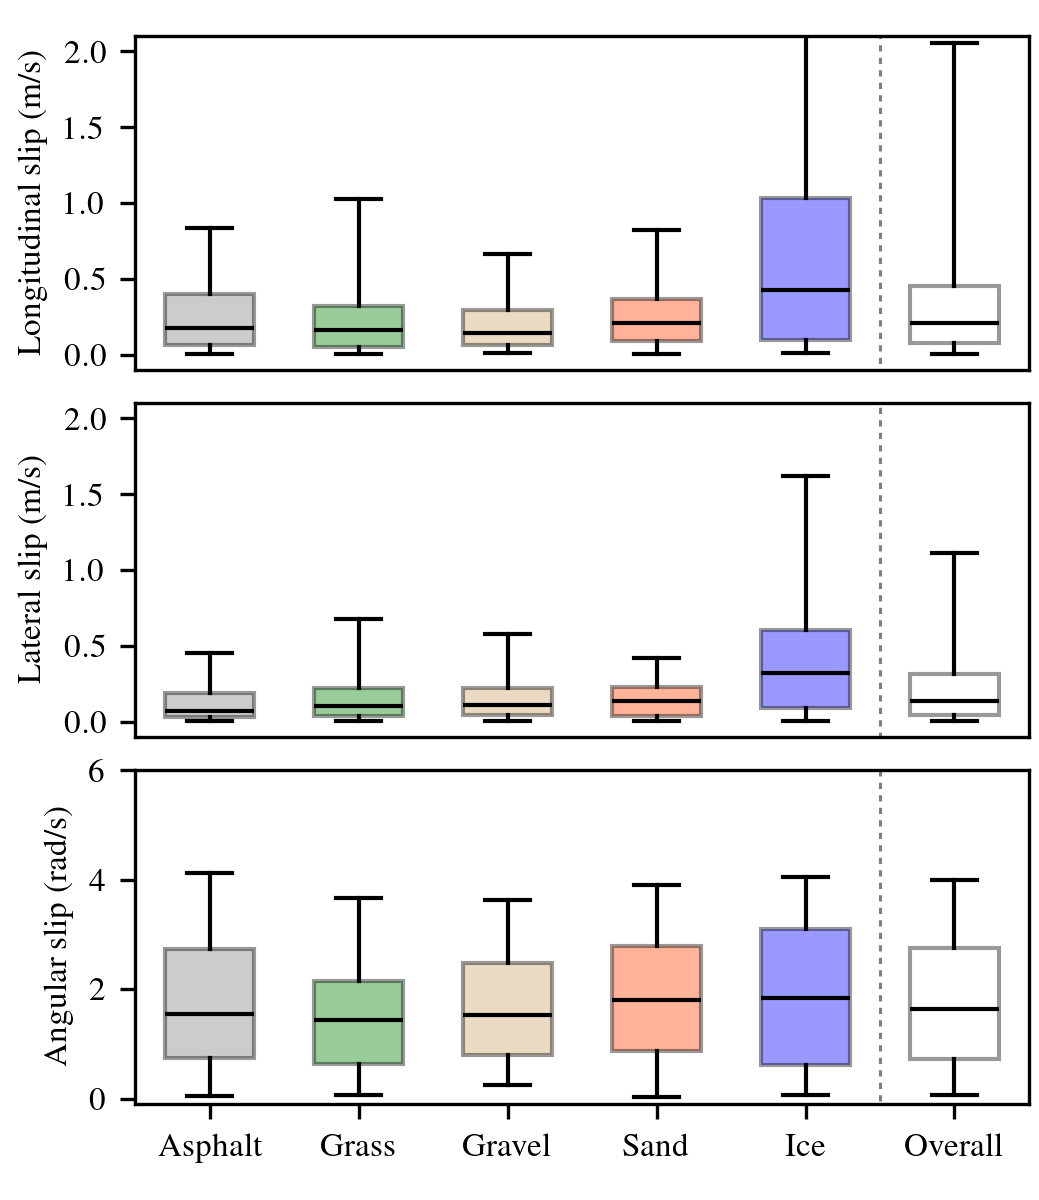
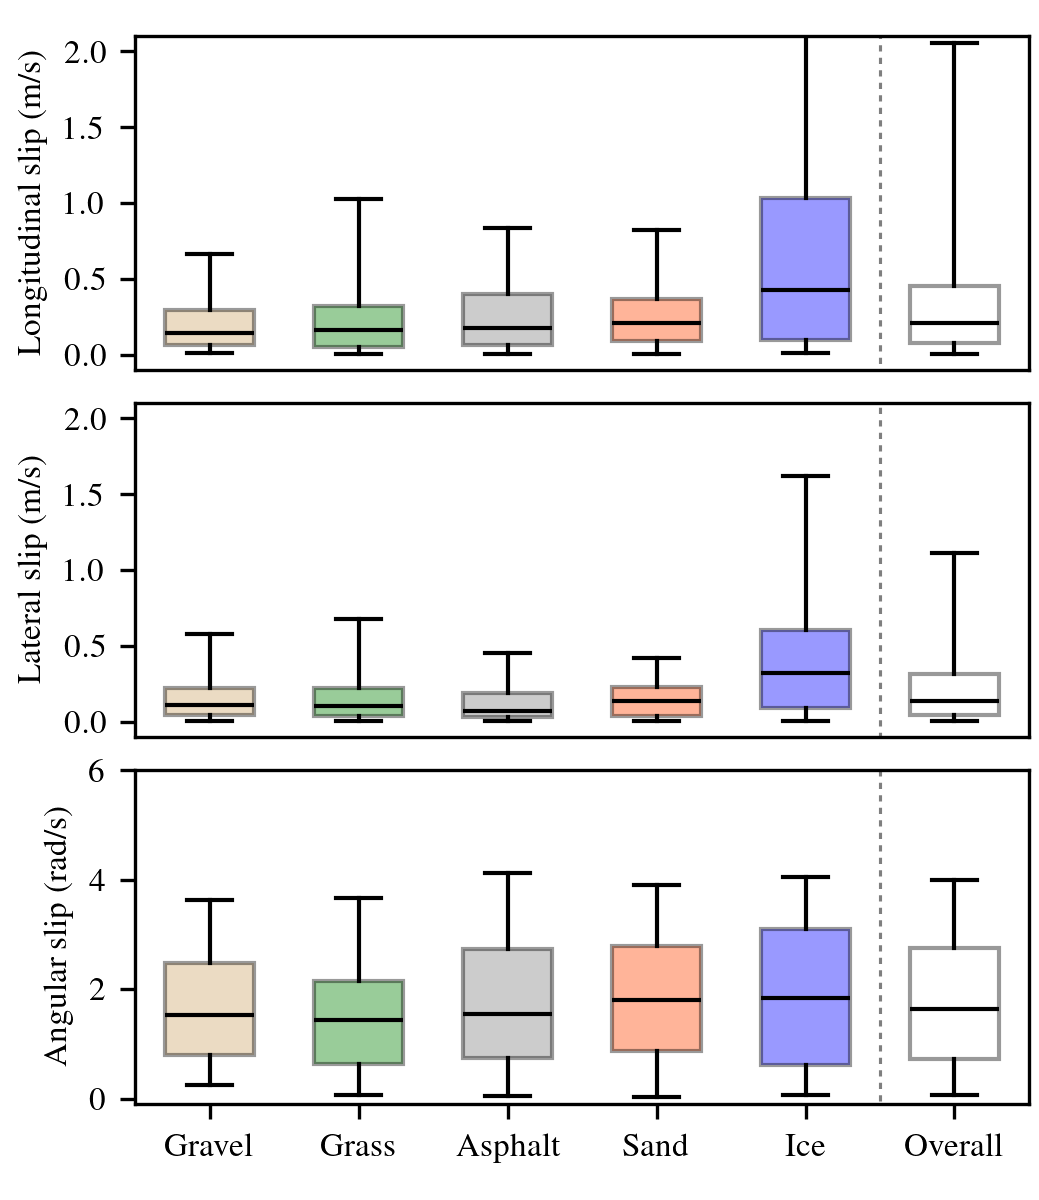
Modified slip figure

diff --git a/drive/model_training/data_utils/extract_area_changes.py b/drive/model_training/data_utils/extract_area_changes.py
@@ -58,9 +58,9 @@ def plot_command_space(df,ax):
     
     return ax, area
 
-def plot_cmd_on_losange(path_to_cmd_vel,df,label,color_ref="grey"):
+def plot_cmd_on_losange(path_to_cmd_vel,df,label,area_list,color_ref="grey"):
 
-    cmd_vel = pd.read_csv(path_to_cmd_vel).to_numpy()
+    # cmd_vel = pd.read_csv(path_to_cmd_vel).to_numpy()
 
     # print(cmd_vel.shape)
 
@@ -69,8 +69,9 @@ def plot_cmd_on_losange(path_to_cmd_vel,df,label,color_ref="grey"):
     fig.subplots_adjust(hspace=0.5,wspace=0.5)
     ax, area_cmd = plot_command_space(df,ax)
     ax,area_achieved,polygon = extract_minimum_sphere(ax,df["icp_vel_x_smoothed"].to_numpy(),df["icp_vel_yaw_smoothed"].to_numpy(),color_ref, use_ratio=False)
-    print("Percentage of the cmd area lost:", 100 - (area_achieved/area_cmd) * 100)
-    print("area achieved: ", area_achieved)
+    # print("Percentage of the cmd area lost:", 100 - (area_achieved/area_cmd) * 100)
+    # print("area achieved: ", area_achieved)
+    area_list.append(area_achieved)
     # list_within = []
     # for i in range(cmd_vel.shape[0]):
     #     point = Point(cmd_vel[i,1],cmd_vel[i,0])
@@ -95,19 +96,20 @@ def plot_cmd_on_losange(path_to_cmd_vel,df,label,color_ref="grey"):
 if __name__ == "__main__":
 
     steady_state_path = "drive_datasets/results_multiple_terrain_dataframe/filtered_cleared_path_husky_following_robot_param_all_terrain_steady_state_dataset.pkl"
-
     df_diamond = pd.read_pickle(steady_state_path)
     color_dict = {"asphalt":"grey", "ice":"blue","gravel":"brown","grass":"green","tile":"pink","boreal":"lightgray"}
-    terrain_list_warthog = ["asphalt", "grass", "gravel", "sand", "ice"]
-    df_warthog = df_diamond.loc[df_diamond["robot"]=="warthog"]
+    terrain_list_warthog = ["asphalt", "grass", "mud"] #, "sand", "ice"]
+    df_warthog = df_diamond.loc[df_diamond["robot"]=="husky"]
     print_column_unique_column(df_warthog)
+    area_list = []
     for i in terrain_list_warthog:
-        print(i)
         df_terrain = df_warthog.loc[df_warthog["terrain"]==i]
         # print_column_unique_column(df_warthog)
 
         path_to_cmd_vel_csv = "drive_datasets/results_multiple_terrain_dataframe/area_test/combined_output.csv"
 
         label = ["CMD space sampled by drive", "steady_state speed on gravel", "CMD in snow"]
-        plot_cmd_on_losange(path_to_cmd_vel_csv,df_terrain,label,color_ref="grey")
+        plot_cmd_on_losange(path_to_cmd_vel_csv,df_terrain,label,color_ref="grey", area_list=area_list)
         # plt.show()
+    for i in range(0, len(terrain_list_warthog)):
+        print(terrain_list_warthog[i], 'percentage achieved: ', 100 * area_list[i]/max(area_list))

diff --git a/drive/model_training/data_utils/slip_boxplot.py b/drive/model_training/data_utils/slip_boxplot.py
@@ -101,22 +101,21 @@ def boxplot_all_terrain_warthog_robot(df,alpha_param=0.3,robot="warthog",
     list_array_y, list_color_y,list_terrain_reordered_y = reorder_boxplot(list_array_y, list_color,list_terrain)
     list_array_rot, list_color_rot,list_terrain_reordered_rot = reorder_boxplot(list_array_rot, list_color,list_terrain)
     
-    for _list in [list_array_x, list_color_x, list_terrain_reordered_x]:
-        tmp = _list[0]
-        _list[0] = _list[2]
-        _list[2] = tmp
+    # for _list in [list_array_x, list_color_x, list_terrain_reordered_x]:
+    #     tmp = _list[0]
+    #     _list[0] = _list[2]
+    #     _list[2] = tmp
     
-    #for _list in [list_array_y, list_color_y, list_terrain_reordered_y]:
-    #    tmp = _list[0]
-    #    _list[0] = _list[1]
-    #    _list[1] = tmp
+    for _list in [list_array_y, list_color_y, list_terrain_reordered_y]:
+       tmp = _list[0]
+       _list[0] = _list[2]
+       _list[2] = tmp
     
     for _list in [list_array_rot, list_color_rot, list_terrain_reordered_rot]:
         tmp = _list[0]
-        tmp2 = _list[1]
-        _list[0] = _list[2]
+        _list[0] = _list[1]
         _list[1] = tmp
-        _list[2] = tmp2
+
 
     #Add the overall 
     list_array_x.append([item for sublist in list_array_x for item in sublist])
@@ -182,7 +181,7 @@ def boxplot_all_terrain_warthog_robot(df,alpha_param=0.3,robot="warthog",
     axs[0].set_ylabel("Longitudinal slip (m/s)")
     axs[1].set_ylabel("Lateral slip (m/s)")
     axs[2].set_ylabel("Angular slip (rad/s)")
-    tick_labels = ['Asphalt', 'Grass', 'Gravel', 'Sand', 'Ice', 'Overall']
+    tick_labels = ['Gravel', 'Grass', 'Asphalt', 'Sand', 'Ice', 'Overall']
     ticks = [0.5, 1.0, 1.5, 2.0, 2.5, 3.0]
     axs[2].set_xticks(ticks, tick_labels)
 

diff --git a/drive/model_training/data_utils/distance_traveled_in_calib.py b/drive/model_training/data_utils/distance_traveled_in_calib.py
@@ -118,6 +118,6 @@ if __name__ == "__main__":
                                 # print_column_unique_column(df_raw)
                                 extract_distance_travelled(df_raw)
                                 compute_area(df_raw)
-                                plt.show()
+                                # plt.show()
 
                                 
